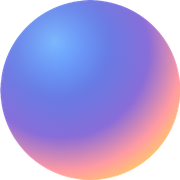
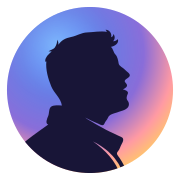
Full monotype redesign: flat layout, text-first, no decorative chrome (#2) (#7)

diff --git a/src/app/page.tsx b/src/app/page.tsx
@@ -1,17 +1,37 @@
-import { AppletCard } from "@/components/ui/applet-card";
+import Image from "next/image";
+import Link from "next/link";
 import { visibleApplets } from "@/config/applets";
-import { siteConfig } from "@/config/site";
+import { deploymentConfig, withBasePath } from "@/config/deployment";
 
 export default function HomePage() {
   return (
-    <div className="space-y-6">
-      <h1 className="text-base font-medium">{siteConfig.name}</h1>
+    <div className="flex min-h-[80vh] flex-col items-center justify-center">
+      <Image
+        src={withBasePath(deploymentConfig.logoPath)}
+        alt="MikeEstMXM"
+        width={140}
+        height={140}
+        priority
+        className="rounded-full"
+      />
 
-      <div className="grid gap-px bg-[var(--color-outline)] border border-[var(--color-outline)] sm:grid-cols-2 xl:grid-cols-3">
+      <p className="mt-6 text-sm uppercase tracking-[0.2em] text-[var(--color-muted)]">
+        MikeEstMXM
+      </p>
+
+      <div className="mt-6 h-px w-12 bg-[var(--color-outline)]" />
+
+      <nav className="mt-6 flex flex-col items-center gap-1">
         {visibleApplets.map((applet) => (
-          <AppletCard key={applet.slug} applet={applet} />
+          <Link
+            key={applet.slug}
+            href={applet.href}
+            className="px-3 py-1.5 text-sm text-[var(--color-muted)] transition-colors hover:text-[var(--color-accent)]"
+          >
+            {applet.name.toLowerCase()}
+          </Link>
         ))}
-      </div>
+      </nav>
     </div>
   );
 }

diff --git a/src/components/ui/applet-card.tsx b/src/components/ui/applet-card.tsx
@@ -11,21 +11,13 @@ export function AppletCard({ applet }: AppletCardProps) {
   return (
     <Link
       href={applet.href}
-      className="group flex flex-col bg-[var(--color-canvas)] p-4 transition-colors hover:bg-[var(--color-panel)]"
+      className="group flex items-center justify-between gap-3 bg-[var(--color-canvas)] px-4 py-3 transition-colors hover:bg-[var(--color-panel)]"
     >
-      <div className="flex items-center justify-between gap-3">
-        <div className="flex items-center gap-1.5 min-w-0">
-          <AppletIcon name={applet.iconName} className="h-3.5 w-3.5 shrink-0 text-[var(--color-muted)]" />
-          <span className="text-sm font-medium truncate">{applet.name}</span>
-        </div>
-        <StatusBadge status={applet.status} />
+      <div className="flex items-center gap-1.5 min-w-0">
+        <AppletIcon name={applet.iconName} className="h-3.5 w-3.5 shrink-0 text-[var(--color-muted)]" />
+        <span className="text-sm font-medium truncate">{applet.name}</span>
       </div>
-
-      <p className="mt-2.5 text-xs leading-5 text-[var(--color-muted)]">{applet.description}</p>
-
-      <span className="mt-5 text-[10px] text-[var(--color-muted)] transition-colors group-hover:text-[var(--color-accent)]">
-        open →
-      </span>
+      <StatusBadge status={applet.status} />
     </Link>
   );
 }

diff --git a/src/config/deployment.ts b/src/config/deployment.ts
@@ -1,9 +1,13 @@
 const basePath = normalizeBasePath(process.env.NEXT_PUBLIC_BASE_PATH);
 
+const isPreview = process.env.VERCEL_ENV === "preview";
+
 export const deploymentConfig = {
   basePath,
   isGithubPages: process.env.DEPLOY_TARGET === "github-pages",
+  isPreview,
   siteUrl: process.env.NEXT_PUBLIC_SITE_URL ?? "http://localhost:3000",
+  logoPath: isPreview ? "/logo-gradient.svg" : "/logo.svg",
 } as const;
 
 export function withBasePath(path: `/${string}`) {

diff --git a/src/components/layout/site-header.tsx b/src/components/layout/site-header.tsx
@@ -9,6 +9,8 @@ import { cx } from "@/lib/utils";
 export function SiteHeader() {
   const pathname = usePathname();
 
+  if (pathname === "/") return null;
+
   return (
     <header className="border-b border-[var(--color-outline)]">
       <div className="mx-auto flex w-full max-w-6xl items-center gap-1 px-4 sm:px-6 lg:px-8">
